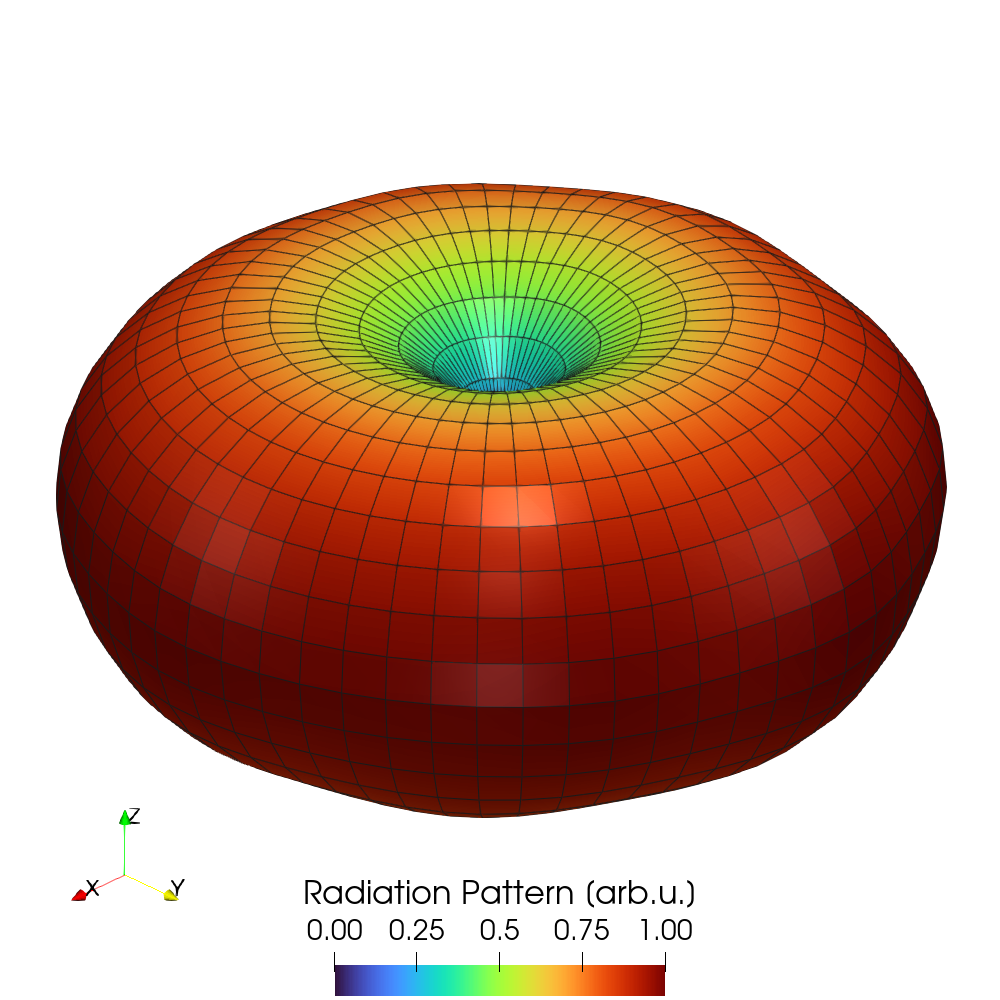
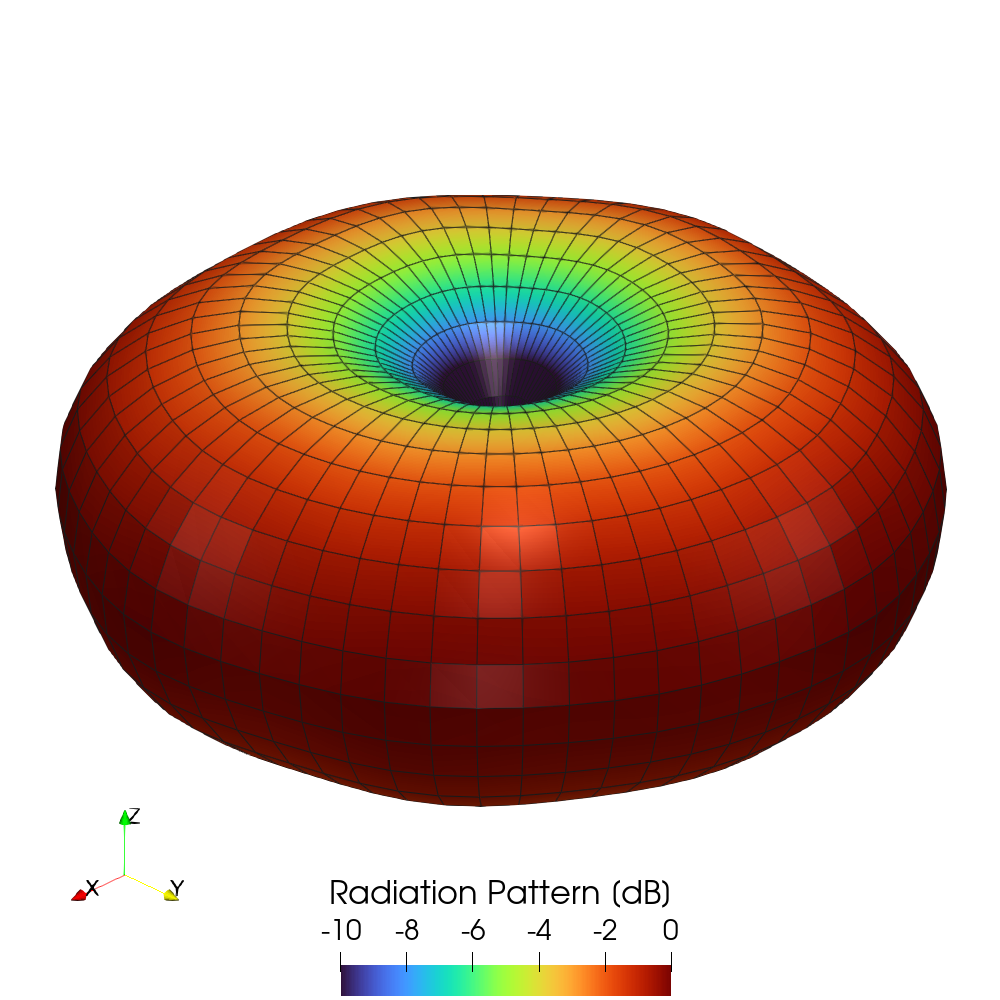
Multiple improvements

diff --git a/Electromagnetics/Stutzman_2012_Dipole_Antenna/radiation_pattern_cross_sections.py b/Electromagnetics/Stutzman_2012_Dipole_Antenna/radiation_pattern_cross_sections.py
@@ -2,6 +2,15 @@ import matplotlib.pyplot as plt
 import numpy as np
 
 
+def to_db(value):
+    # Use 20*log10 to convert amplitude to dB, not 10*log10 which is for power.
+    level = np.max(value) * 1e-10
+    value_lvl = np.copy(value)
+    value_lvl[value_lvl < level] = level
+    value_db = 20 * np.log10(value_lvl)
+    return value_db - np.max(value_db)
+
+
 # mufem results ------------------------------------------------------------------------
 data = np.load("results/Far_Field_3D.npz")
 
@@ -46,16 +55,26 @@ hplane_theory = np.ones(len(phis))
 # Plot ---------------------------------------------------------------------------------
 # E-plane:
 fig, ax = plt.subplots(subplot_kw={"projection": "polar"})
-ax.plot(thetas_full, eplane_theory_full, "k-", label="Analytic")
-ax.plot(thetas_full, eplane_full, "r-", label="$\\mu$fem")
-ax.set_rmax(1.1)
-ax.legend(loc=0)
+ax.set_theta_zero_location("N")
+ax.set_theta_direction(-1)
+ax.plot(thetas_full, to_db(eplane_theory_full), "k-", label="Analytic")
+ax.plot(thetas_full, to_db(eplane_full), "r-", label="$\\mu$fem")
+ax.set_ylim(-12, 2)
+ax.set_yticks([-10, -8, -6, -4, -2, 0])
+ax.legend(loc="lower center", bbox_to_anchor=(0.5, 0.12))
+ax.set_title("E-plane", fontweight="bold")
 plt.savefig("results/Far_Field_E-plane.png", bbox_inches="tight")
 
 # H-plane:
 fig, ax = plt.subplots(subplot_kw={"projection": "polar"})
-ax.plot(phis, hplane_theory, "k-", label="Analytic")
-ax.plot(phis, hplane, "r-", label="$\\mu$fem")
-ax.set_rmax(1.1)
-ax.legend(loc=0)
+ax.set_theta_zero_location("N")
+ax.set_theta_direction(-1)
+ax.plot(phis, to_db(hplane_theory), "k-", label="Analytic")
+ax.plot(phis, to_db(hplane), "r-", label="$\\mu$fem")
+ax.set_ylim(-12, 2)
+ax.set_yticks([-10, -8, -6, -4, -2, 0])
+ax.legend(loc="lower center", bbox_to_anchor=(0.5, 0.12))
+ax.set_title("H-plane", fontweight="bold")
 plt.savefig("results/Far_Field_H-plane.png", bbox_inches="tight")
+
+plt.show()

diff --git a/Electromagnetics/Stutzman_2012_Dipole_Antenna/paraview_radiation_pattern.py b/Electromagnetics/Stutzman_2012_Dipole_Antenna/paraview_radiation_pattern.py
@@ -74,6 +74,12 @@ poly.SetPolys(cells)
 src = pvs.TrivialProducer()
 src.GetClientSideObject().SetOutput(poly)
 
+# Convert to dB:
+# Use 20*log10 to convert amplitude to dB, not 10*log10 which is for power.
+src = pvs.Calculator(Input=src)
+src.ResultArrayName = f"{field_name}"
+src.Function = (f'20 * log10("{field_name}")')
+
 
 # View settings ------------------------------------------------------------------------
 view = pvs.GetRenderView()
@@ -107,7 +113,7 @@ ctf.ApplyPreset("Turbo")
 
 scalar_bar = pvs.GetScalarBar(ctf)
 
-scalar_bar.Title = f"{field_name} [arb.u.]"
+scalar_bar.Title = f"{field_name} [dB]"
 scalar_bar.ComponentTitle = ""
 
 scalar_bar.Orientation = "Horizontal"
@@ -117,15 +123,15 @@ scalar_bar.LabelColor = (0, 0, 0)
 scalar_bar.TitleFontSize = 32
 scalar_bar.LabelFontSize = 28
 scalar_bar.ScalarBarThickness = 32
-scalar_bar.RangeLabelFormat = "%.2f"
-scalar_bar.LabelFormat = "%.2f"
+scalar_bar.RangeLabelFormat = "%.0f"
+scalar_bar.LabelFormat = "%.0f"
 
-scalar_bar.LookupTable.RescaleTransferFunction(0.0, 1.0)
+scalar_bar.LookupTable.RescaleTransferFunction(-10, 0.0)
 scalar_bar.LookupTable.NumberOfTableValues = 256
 scalar_bar.LookupTable.Discretize = 1
 
-scalar_bar.UseCustomLabels = 1
-scalar_bar.CustomLabels = [0.0, 0.25, 0.5, 0.75, 1.0]
+# scalar_bar.UseCustomLabels = 1
+# scalar_bar.CustomLabels = [0.0, 0.25, 0.5, 0.75, 1.0]
 
 
 # Camera settings ----------------------------------------------------------------------

diff --git a/Electromagnetics/Stutzman_2012_Dipole_Antenna/paraview_electric_field.py b/Electromagnetics/Stutzman_2012_Dipole_Antenna/paraview_electric_field.py
@@ -1,3 +1,6 @@
+import sys
+sys.path.insert(0, '/home/fedoroff/software/ParaView-6.0.1-MPI-Linux-Python3.12-x86_64/lib/python3.12/site-packages/')
+
 import os
 import numpy as np
 import paraview.simple as pvs
@@ -13,7 +16,7 @@ def create_scene(data_original, phase, screenshot_file):
     data = pvs.Calculator(Input=data_original)
     data.ResultArrayName = f"{field_name}"
     data.Function = (
-        f'"{field_name_real}" * cos({phase}) + "{field_name_imag}" * sin({phase})'
+        f'"{field_name_real}" * cos({phase}) - "{field_name_imag}" * sin({phase})'
     )
 
     # Slice plane at z=0 ---------------------------------------------------------------

diff --git a/Electromagnetics/Stutzman_2012_Dipole_Antenna/README.md b/Electromagnetics/Stutzman_2012_Dipole_Antenna/README.md
@@ -9,8 +9,11 @@ It consists of two thin metallic rods that have a sinusoidal voltage difference
 applied between them.
 The length of the rods is equal to a quarter of the wavelength at the operating
 frequency.
-Such antenna produces a torus-like radiation pattern approximating that of an
-elementary electric dipole.
+This design produces a doughnut-shaped radiation pattern that approximates that
+of an elementary electric dipole.
+Simple yet versatile, dipole antennas are used in various applications,
+including Wi-Fi, cellular, GPS, and amateur radio, serving as basic radiating
+elements or components in more complex designs.
 
 <div align="center">
     <img src="data/Geometry.png" alt="drawing" width="50%">
@@ -20,26 +23,31 @@ elementary electric dipole.
 </div>
 <br/>
 
+
 ## Setup
 
-In our simulation the antenna consists of two perfectly conducting cylinders
-(modeled using
-[Perfect Electric Conductor Condition](https://raiden-numerics.github.io/mufem-doc/models/electromagnetics/time_harmonic_maxwell/conditions/perfect_electric_conductor_condition.html)),
-each with a length of $L=1$ m and a radius of $a=L/20=5$ cm, separated by a
-narrow gap of length $l=L/100=1$ cm.
-With these geometric parameters, the operating wavelength is approximately
+In our simulation, the dipole antenna consists of two perfectly conducting
+cylinders modeled using the
+[Perfect Electric Conductor Condition](https://raiden-numerics.github.io/mufem-doc/models/electromagnetics/time_harmonic_maxwell/conditions/perfect_electric_conductor_condition.html)).
+Each cylinder has a length of $L=1$ m and a radius of $a=L/20=5$ cm, separated
+by a narrow gap of length $l=L/100=1$ cm.
+Given these geometric parameters, the operating wavelength is approximately
 $\lambda=4$ m, corresponding to a frequency of $f=0.0749$ GHz.
+This design is inspired by the
+[Dipole Antenna and Radiation Fields](https://awslabs.github.io/palace/stable/examples/antenna/)
+example from the [Palace](https://github.com/awslabs/palace) finite element
+code.
 
 The gap acts as the excitation point for the antenna.
 The feeding circuit is modeled using a
-[Lumped Port Condition](https://raiden-numerics.github.io/mufem-doc/models/electromagnetics/time_harmonic_maxwell/conditions/lumped_port_condition.html)
-applied to a flat rectangular strip that connects the two arms of the antenna.
+[Lumped Port Condition](https://raiden-numerics.github.io/mufem-doc/models/electromagnetics/time_harmonic_maxwell/conditions/lumped_port_condition.html),
+applied to a flat rectangular strip connecting the two arms of the antenna.
 
-The antenna is surrounded by free space, which is represented in the model by an
+The antenna is surrounded by free space, represented in the model by an
 enclosing sphere of radius $r=1.5\lambda=6$ m, centered at the origin.
 An
 [Absorbing Boundary Condition](https://raiden-numerics.github.io/mufem-doc/models/electromagnetics/time_harmonic_maxwell/conditions/absorbing_condition.html)
-is applied to the sphere boundary to simulate an infinite domain.
+is applied to the sphere's boundary to simulate an infinite domain.
 
 The problem geometry and corresponding mesh are generated in the
 [geometry.py](geometry.py) file using the [Gmsh](https://gmsh.info/) mesh
@@ -50,7 +58,7 @@ one-fifth of the radiation wavelength $\lambda$:
 ```py
 gmsh.option.setNumber("Mesh.MeshSizeMax", wavelength / 5)
 ```
-Additionally, we employ second-order mesh elements, ensuring at least 12
+Additionally, we employ second-order mesh elements to ensure at least 12
 elements per $2\pi$ radians of the mesh curvature:
 
 ```py
@@ -60,9 +68,7 @@ gmsh.option.setNumber("Mesh.MeshSizeFromCurvature", 12)
 ```
 
 This approach results in a smoother mesh around the cylindrical arms of the
-antenna.
-
-The resulting mesh is illustrated in Fig. 2.
+antenna. The resulting mesh is illustrated in Fig. 2.
 
 <div align="center">
     <img src="data/Mesh.png" alt="drawing" width="49%">
@@ -90,7 +96,7 @@ model = TimeHarmonicMaxwellModel(
 ```
 
 We assume that the domain surrounding the antenna is filled with air, which we
-simulate using the
+model using the
 [Constant](https://raiden-numerics.github.io/mufem-doc/models/electromagnetics/time_harmonic_maxwell/materials/time_harmonic_maxwell_material_constant.html)
 time-harmonic Maxwell material, characterized by the permeability and
 permittivity of free space:
@@ -113,11 +119,13 @@ pymufem case.py
 
 ### Electric Field
 
-To visualize the resulting electric field, we export it to a
-[VTK](https://vtk.org/) file and then visualize it with
-[Paraview](https://www.paraview.org/)
-using the script from the
-[paraview_electric_field.py](paraview_electric_field.py) file.
+To visualize the resulting electric field, we export it to a VTK file, as
+outlined in the
+[Visualization](https://raiden-numerics.github.io/mufem-doc/framework/visualization.html)
+section of the documentation.
+We then use the script from the
+[paraview_electric_field.py](paraview_electric_field.py) file to plot it in
+ParaView.
 Figure 3 illustrates the electric field radiated by the antenna.
 As can be seen, the field distribution of a dipole antenna closely resembles
 that generated by an elementary dipole.
@@ -134,14 +142,14 @@ that generated by an elementary dipole.
 
 ### Radiation pattern
 
-In order to visualize the antenna's radiation pattern, we use the
+To visualize the antenna's radiation pattern, we employ the
 [Far-Field Radiation Sensor](https://raiden-numerics.github.io/mufem-doc/models/electromagnetics/time_harmonic_maxwell/reports/far_field_radiation_sensor.html)
 to generate the far-field data.
-We then employ the
+Subsequently, we utilize the
 [paraview_radiation_pattern.py](paraview_radiation_pattern.py) file to plot it
-in [Paraview](https://www.paraview.org/).
-As shown Fig. 4, the resulting radiation pattern exhibits a torus-like shape,
-characteristic to dipole radiation.
+in ParaView.
+As shown in Fig. 4, the resulting radiation pattern exhibits a doughnut-like
+shape, characteristic of dipole radiation.
 
 <div align="center">
     <img src="results/Scene_Radiation_Pattern.png" alt="drawing" width="50%">
@@ -151,8 +159,8 @@ characteristic to dipole radiation.
 </div>
 <br/>
 
-To further evaluate how closely the radiation of the dipole antenna resembles
-that of an actual dipole, we compare the simulated radiation pattern
+To further assess how closely the radiation of the dipole antenna aligns with
+that of an ideal dipole, we compare the simulated radiation pattern
 cross-sections to the analytical solution for a radiating elementary dipole
 [[2]](#references):
 
@@ -166,7 +174,7 @@ cross-sections to the analytical solution for a radiating elementary dipole
 where $\theta$ is the azimuthal angle and $\phi$ is the polar angle.
 The corresponding script can be found in the
 [radiation_pattern_cross_sections.py](radiation_pattern_cross_sections.py) file.
-As shown in Fig. 5., the simulated radiation pattern closely matches the
+As depicted in Fig. 5., the simulated radiation pattern closely matches the
 analytical result.
 
 <div align="center">
